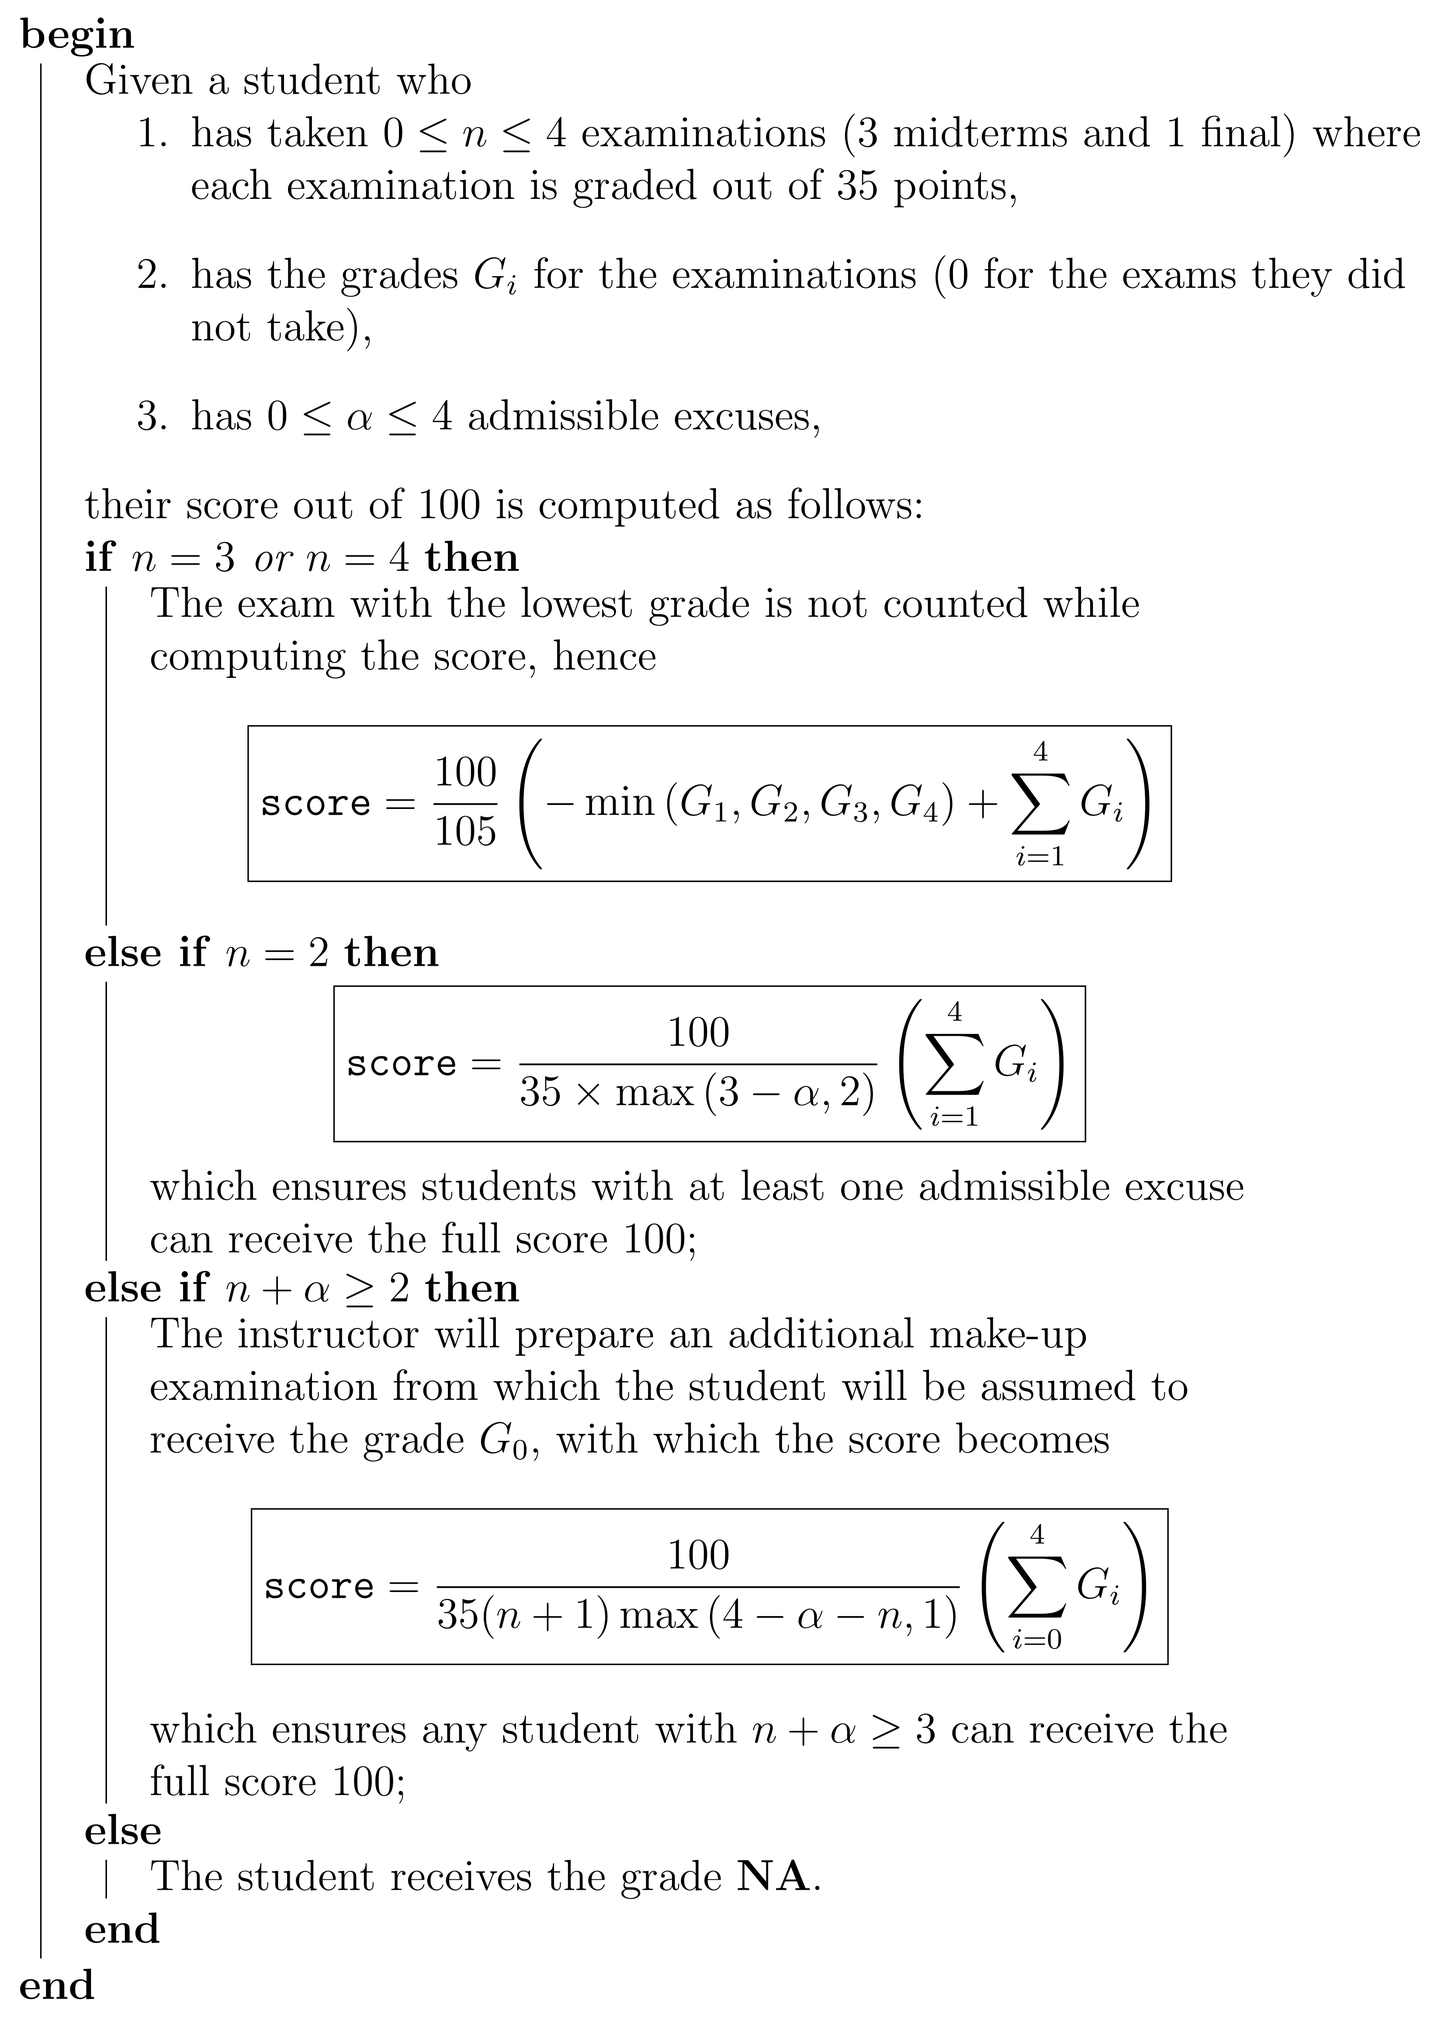
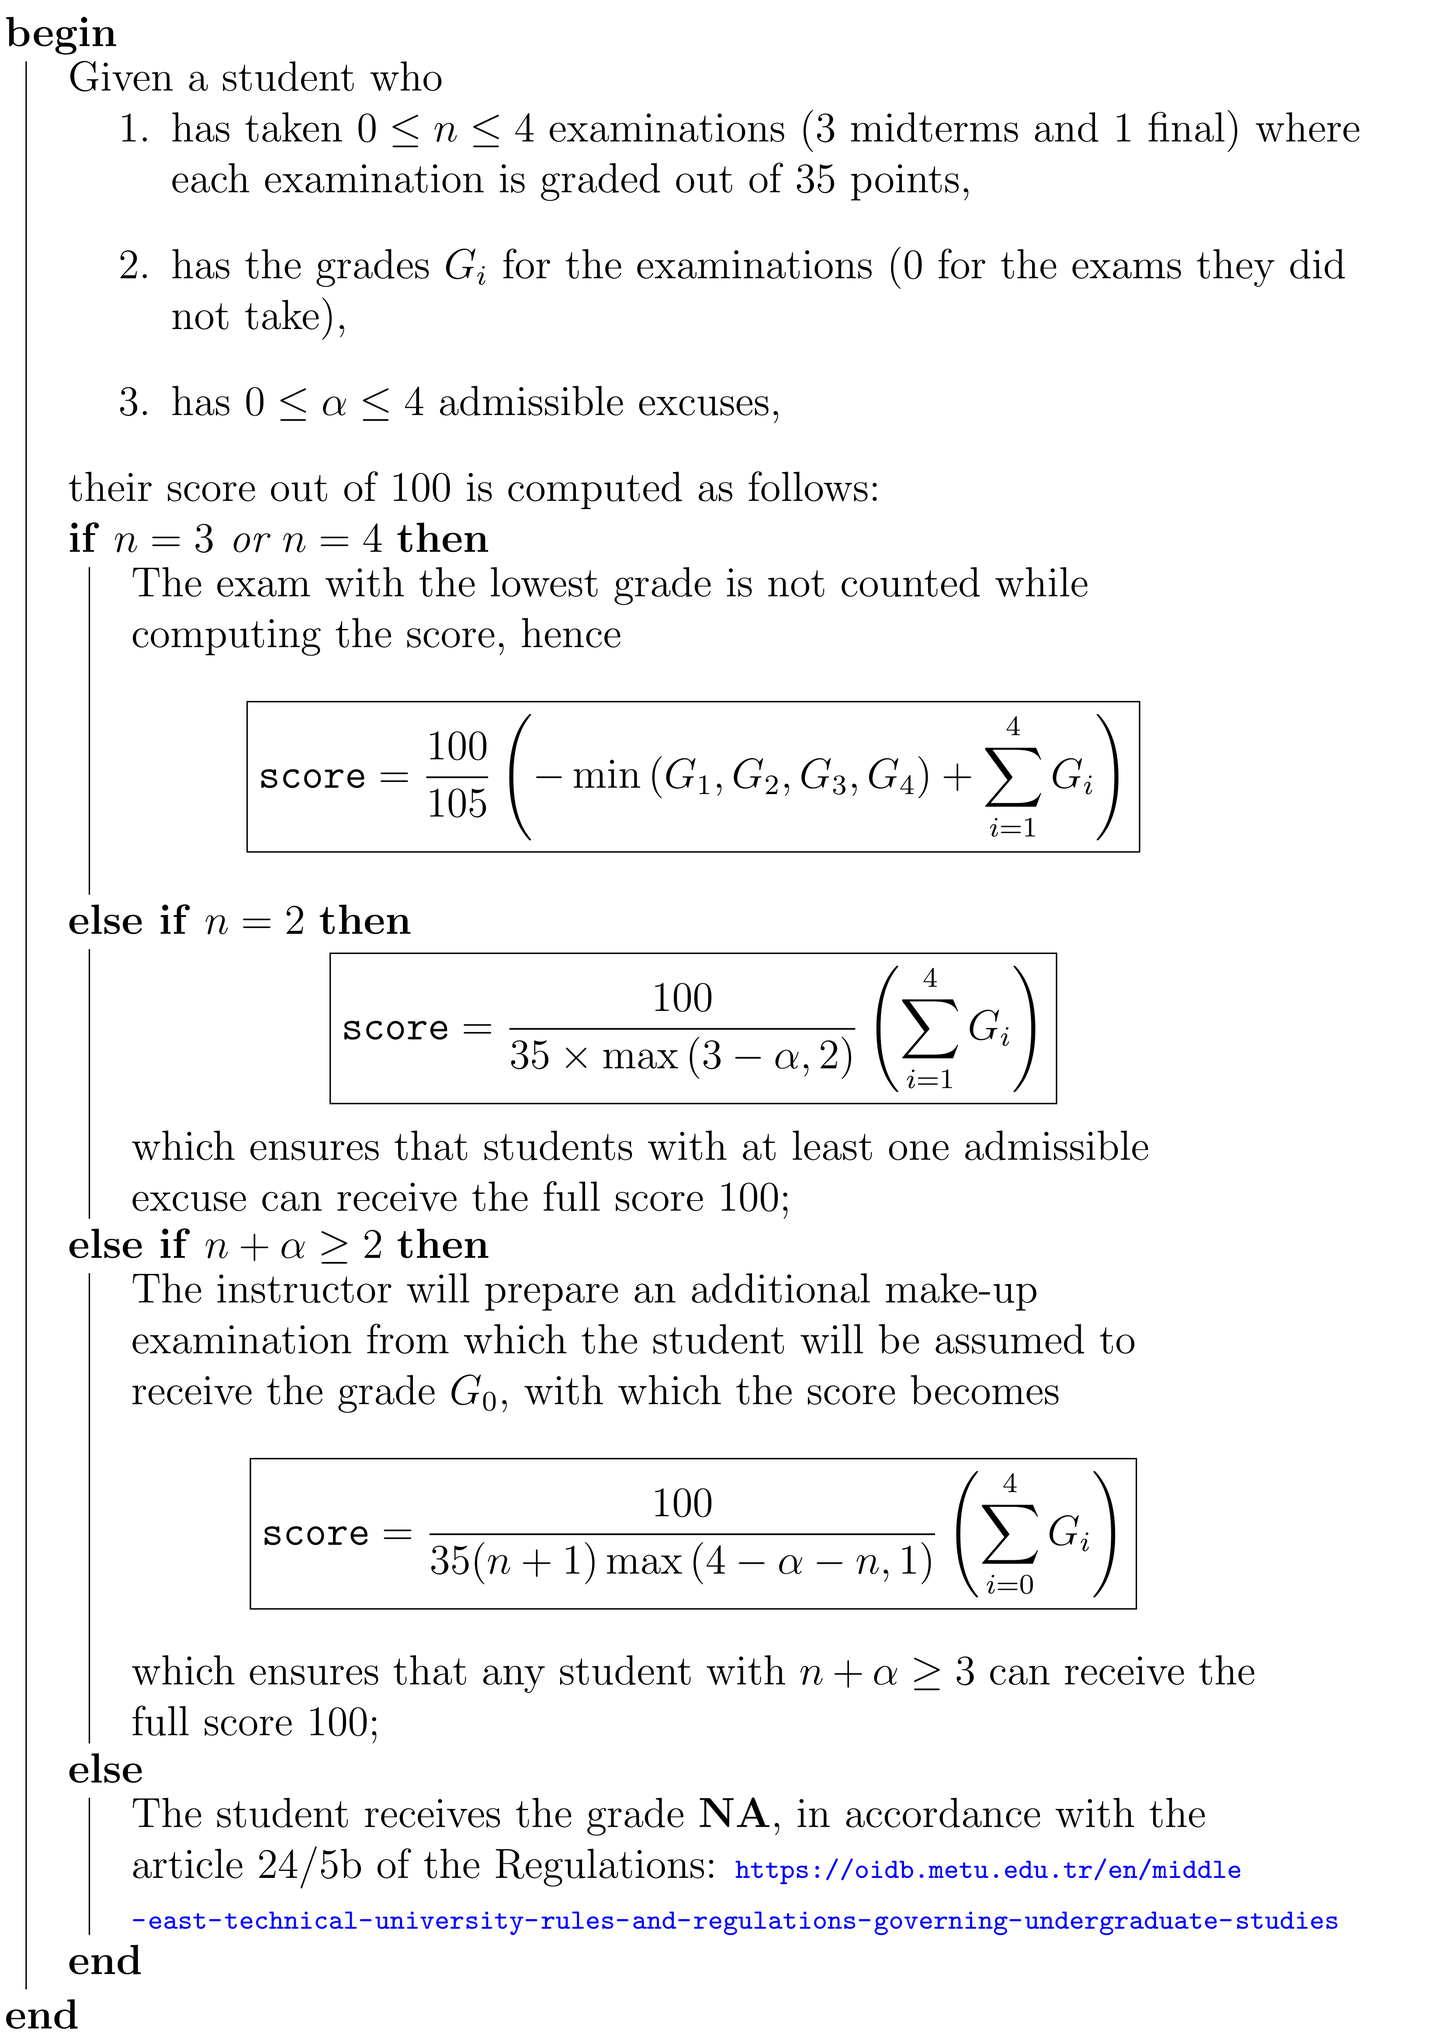
auto_commit

diff --git a/MyTeachingPolicy.html b/MyTeachingPolicy.html
@@ -47,15 +47,16 @@ these courses can get quite essential for the rest of your physics career and yo
 may not be able to learn everything by studying yourself! That said, your
 attendance will not affect your grade.
 </p>
-<!-- l. 17 --><p class='noindent'><span class='likeparagraphHead' id='grades'><a id='x10-61000'></a>Grades:</span>
+<!-- l. 17 --><p class='noindent'><span class='likeparagraphHead' id='assessment-grades'><a id='x10-61000'></a>Assessment &amp; Grades:</span>
 </p>
       <ul class='itemize1'>
-      <li class='itemize'>A student gets an <span class='cmtt-12'>NA </span>if s/he takes none of the mid-term and final
-      examinations (article 24/5b in <a href='https://oidb.metu.edu.tr/en/middle-east-technical-university-rules-and-regulations-governing-undergraduate-studies'>Regulations</a>).
+      <li class='itemize'>By the <a href='https://oidb.metu.edu.tr/en/middle-east-technical-university-rules-and-regulations-governing-undergraduate-studies'>Regulations</a> (article 24/5), each student receives a letter grade
+      at the end of the semester.
       </li>
-      <li class='itemize'>The subdivision of overall score among examinations or other possible
-      courseload is determined per the course: see its syllabus for further
-      details.
+      <li class='itemize'>The letter grades will be determined based on the <span class='cmti-12'>scores </span>of the students,
+      and  the  subdivision  of  overall  score  among  examinations  or  other
+      possible courseload is determined per the course: see its syllabus for
+      further details.
       </li>
       <li class='itemize'>As  per  my  right  provided  by  the  <a href='https://oidb.metu.edu.tr/en/middle-east-technical-university-rules-and-regulations-governing-undergraduate-studies'>Regulations</a>  (article  24/2),  I  will
       determine the conversion of <span class='cmti-12'>Score </span>to a <span class='cmti-12'>Letter Grade </span>at the end of the
@@ -65,38 +66,56 @@ attendance will not affect your grade.
       on the overall class performance and the receptions of the exams by
       the class. For my grading strategy in past, check out <a href='https://soneralbayrak.com/teaching/MyGradingScheme'>my explanations
       here</a>.</li></ul>
-<!-- l. 24 --><p class='noindent'><span class='likeparagraphHead' id='makeup-examinations'><a id='x10-62000'></a>Make-up examinations:</span>
+<!-- l. 24 --><p class='noindent'><span class='likeparagraphHead' id='examinations-admissible-excuses'><a id='x10-62000'></a>Examinations &amp; Admissible Excuses:</span>
 </p>
       <ul class='itemize1'>
-      <li class='itemize'>
-      <!-- l. 26 --><p class='noindent'>If you have a medical report as an excuse for absenteeism in an examination,
-      you are entitled to a make-up examination. I will decide on the contents and
-      date of the make-up examination at my discreation, see <a href='https://oidb.metu.edu.tr/en/middle-east-technical-university-directive-students-health-issues-and-medical-reports'>Regulations</a> (article
-      11/1c). Also, make sure to
-           </p><dl class='enumerate-enumitem'><dt class='enumerate-enumitem'>
-        1. </dt><dd class='enumerate-enumitem'>submit your medical report to <span class='cmti-12'>Health and Guidance Center </span>at the
+      <li class='itemize'>Students are responsible to take each and every examination announced
+      in the syllabus. If you fail to take an examination without <span class='cmti-12'>an admissible
+      </span><span class='cmti-12'>excuse</span>, I will invoke my rights provided by the <a href='https://oidb.metu.edu.tr/en/middle-east-technical-university-rules-and-regulations-governing-undergraduate-studies'>Regulations</a> (article 23)
+      to penalize your score (hence effectively your letter grade) as detailed
+      in the respective syllabus of the course.
                                                                           
 
                                                                           
-           campus within 5 days after the period covered by the report ends,
-           as required by the <a href='https://oidb.metu.edu.tr/en/middle-east-technical-university-directive-students-health-issues-and-medical-reports'>Regulations</a> (article 10/2),
+      </li>
+      <li class='itemize'>
+      <!-- l. 27 --><p class='noindent'>If a student misses one or more examinations in the following cases, they
+      may be entitled to admissible excuses:
+           </p><dl class='enumerate-enumitem'><dt class='enumerate-enumitem'>
+        1. </dt><dd class='enumerate-enumitem'>If  you  were  at  the  <span class='cmti-12'>Health  and  Guidance  Center  </span>for  medical
+           examination or treatment at the same time as the exam, request
+           a <span class='cmti-12'>medical examination document </span>from HGC: I <span class='cmbx-12'>may or may not</span>
+           accept it as an admissible excuse, in alignment with the relevant
+           <a href='https://oidb.metu.edu.tr/en/middle-east-technical-university-directive-students-health-issues-and-medical-reports'>regulation</a> (article 9/4b).
            </dd><dt class='enumerate-enumitem'>
-        2. </dt><dd class='enumerate-enumitem'>send me a picture of the report as well.</dd></dl>
+        2. </dt><dd class='enumerate-enumitem'>If  you  have  a  medical  report,  it  is  an  admissible  excuse  (see
+           article 11/3c of <a href='https://oidb.metu.edu.tr/en/middle-east-technical-university-directive-students-health-issues-and-medical-reports'>Regulations</a>) if you submit your medical report
+           to <span class='cmti-12'>Health and Guidance Center  </span>(HGC) within 5 days after the
+           period covered by the report ends, as required by the <a href='https://oidb.metu.edu.tr/en/middle-east-technical-university-directive-students-health-issues-and-medical-reports'>Regulations</a>
+           (article 10/2). Therefore, I reserve the right <span class='cmti-12'>not to accept  </span>your
+           medical report as an admissible excuse if it was not validated by
+           HGC. In any case, I suggest that you contact me immediately if
+           you miss an exam due to a medical complication, and email me a
+           picture of your medical report as well.
+           </dd><dt class='enumerate-enumitem'>
+        3. </dt><dd class='enumerate-enumitem'>If the student has a concurrent examination scheduled for another
+           course, then I count it as an <span class='cmti-12'>admissible excuse </span>provided that the
+           instructor of the other course sends me an email through their
+           METU email address, verifying the exam clash.
+           </dd><dt class='enumerate-enumitem'>
+        4. </dt><dd class='enumerate-enumitem'>For other situations (such as a family crisis, death of a relative,
+           etc.),  please  contant  me:  I  may  (or  may  not)  grant  you  an
+           admissible excuse.</dd></dl>
       </li>
-      <li class='itemize'>You are <span class='cmti-12'>not </span>entitled to a make-up examination without a valid medical
-      report as an excuse for absenteeism in an examination. Nevertheless, I may
-      (or may not) grant you one if I believe you have a sufficiently valid reason:
-      contact me if you have such a situation (a family crisis, death of a relative,
-      etc.).
-      </li>
-      <li class='itemize'>Make-up examination is harder than the corresponding regular exam by its
-      nature: it may include more content and is usually conducted during the
-      finals’ weeks. This is to ensure that a student does not get an unintended
-      advantage by taking the make-up examination instead of the regular one, as
-      they get more time for the exam than their peers in the class. Therefore, <span class='cmti-12'>it
-      </span><span class='cmti-12'>is strategically unwise to try to get a make-up examination in an intend to
-      </span><span class='cmti-12'>get higher grades</span>.</li></ul>
+      <li class='itemize'>An admissible excuse does not warrant a make-up examination; it may
+      simply change the algorithm with which the student’s score is calculated in
+      accordance with the relevant regulations (for instance, see article 11/3c of
+      <a href='https://oidb.metu.edu.tr/en/middle-east-technical-university-directive-students-health-issues-and-medical-reports'>Regulations</a>). For more details, consult to the syllabus of the relevant
+      course.</li></ul>
 <!-- l. 1 --><div class='crosslinks'><p class='noindent'>[<a href='MyGradingScheme.html'>next</a>] [<a href='MyResearchInterests.html'>prev</a>] [<a href='MyResearchInterests.html#tailMyResearchInterests.html'>prev-tail</a>] [<a href='MyTeachingPolicy.html'>front</a>] [<a href='index.html#MyTeachingPolicy.html'>up</a>] </p></div>
+                                                                          
+
+                                                                          
 <!-- l. 1 --><p class='indent'>   <a id='tailMyTeachingPolicy.html'></a></p> 
 <div class='footer'><p>Copyright © by Soner Albayrak | All rights reserved</p></div> 
  

diff --git a/MyGradingScheme.html b/MyGradingScheme.html
@@ -22,9 +22,6 @@ transparency.
 <p><a id='x11-64000doc'></a></p>
 <!-- l. 6 --><p class='noindent'>Let us assume that a student <!-- l. 6 --><math display='inline' xmlns='http://www.w3.org/1998/Math/MathML'><mi>S</mi></math>
 takes a class <!-- l. 6 --><math display='inline' xmlns='http://www.w3.org/1998/Math/MathML'><mi>C</mi></math>: at the end of
-                                                                          
-
-                                                                          
 the semester, the grade <!-- l. 6 --><math display='inline' xmlns='http://www.w3.org/1998/Math/MathML'><mi>G</mi></math>
 of the student is expected to depend both on the student
 <!-- l. 6 --><math display='inline' xmlns='http://www.w3.org/1998/Math/MathML'><mi>S</mi></math> and the class
@@ -47,6 +44,9 @@ if it exists.
 </p>
       <ul class='itemize1'>
       <li class='itemize'>The dependence on <!-- l. 12 --><math display='inline' xmlns='http://www.w3.org/1998/Math/MathML'><mi>S</mi></math>
+                                                                          
+
+                                                                          
       can be reduced to a single parameter: <span class='cmti-12'>the score of the student</span>.
       </li>
       <li class='itemize'>The dependence on <!-- l. 13 --><math display='inline' xmlns='http://www.w3.org/1998/Math/MathML'><mi>C</mi></math>
@@ -60,9 +60,6 @@ on which bracket a student’s score falls into. This is colloquially called <sp
 <!-- l. 17 --><p class='noindent'><span class='likeparagraphHead' id='b'><a id='x11-66000'></a>(b)</span>
    The second practical approach assumes the following: </p>
       <ul class='itemize1'>
-                                                                          
-
-                                                                          
       <li class='itemize'>The dependence on <!-- l. 19 --><math display='inline' xmlns='http://www.w3.org/1998/Math/MathML'><mi>S</mi></math>
       can be reduced to a single parameter: <span class='cmti-12'>the score of the student</span>.
       </li>
@@ -83,6 +80,9 @@ did compared to this hypothetical average student. For instance, if a student ha
 score <!-- l. 24 --><math display='inline' xmlns='http://www.w3.org/1998/Math/MathML'><mrow><mn>40</mn></mrow></math>,
 and the probability for the hypothetical average student to get a score between
 <!-- l. 24 --><math display='inline' xmlns='http://www.w3.org/1998/Math/MathML'><mrow><mn>30</mn></mrow></math> and
+                                                                          
+
+                                                                          
 <!-- l. 24 --><math display='inline' xmlns='http://www.w3.org/1998/Math/MathML'><mrow><mn>100</mn></mrow></math> is
 <!-- l. 24 --><math display='inline' xmlns='http://www.w3.org/1998/Math/MathML'><mrow><mn>1</mn><mo class='MathClass-bin'>∕</mo><mn>100</mn></mrow></math>, then
 the student is to be awarded the letter grade <span class='cmtt-12'>AA </span>even though their score would be
@@ -99,9 +99,6 @@ Despite having the potential to be somehow fairer, these methods are either
 non-algorithmic or non-practical for large classes, hence I do not prefer
 them.
 </p>
-                                                                          
-
-                                                                          
    <h5 class='likesubsubsectionHead' id='my-algorithm'><a id='x11-68000'></a>My algorithm</h5>
 <p><a id='x11-68000doc'></a></p>
 <!-- l. 30 --><p class='noindent'>There are some problems both with the catalog and traditional curve grading:
@@ -122,6 +119,9 @@ them.
       whereas 25 other students with the score <!-- l. 33 --><math display='inline' xmlns='http://www.w3.org/1998/Math/MathML'><mrow><mi>X</mi> <mo class='MathClass-bin'>+</mo> <mn>1</mn></mrow></math>
       get the letter grade <span class='cmtt-12'>AA</span>: both catalog and traditional curve grading are
       insensitive to such problems!
+                                                                          
+
+                                                                          
       </li>
       <li class='itemize'><span class='cmbxti-10x-x-120'>They cannot distinguish high effort from low effort! </span>It is easier
       to get 5 more points if your grade is 20 out of 100, whereas this becomes
@@ -137,9 +137,6 @@ them.
       mechanism  at  all  to  supply  such  an  asymmetry.  In  short,  in  both
       approaches, one relies on instructor’s judgement to ensure that the
       grading scheme distinguishes low and high efforts.</li></ul>
-                                                                          
-
-                                                                          
 <!-- l. 37 --><p class='indent'>   The first two problems can be solved if we <span class='cmti-12'>cluster </span>students into various
 groups: indeed, we expect students to obtain similar results if they turn in similar
 homeworks or make similar mistakes in the exams, so it is natural to observe
@@ -160,6 +157,9 @@ not distinguish different parts of the score spectrum. We can remedy this by
 stretching the high end of the scores and squeezing the low end –this can be
 achieved by the following code: </p>
 <div class='center'>
+                                                                          
+
+                                                                          
 <!-- l. 46 --><p class='noindent'>
 </p>
 <!-- l. 47 -->
@@ -174,9 +174,6 @@ Semester. </p>
 <div class='center'>
 <!-- l. 53 --><p class='noindent'>
 </p><!-- l. 54 --><p class='noindent'><img alt='PIC' src='images//grade_visualization.png' style='width:100%' /> </p></div>
-                                                                          
-
-                                                                          
 <!-- l. 1 --><div class='crosslinks'><p class='noindent'>[<a href='MySchedule.html'>next</a>] [<a href='MyTeachingPolicy.html'>prev</a>] [<a href='MyTeachingPolicy.html#tailMyTeachingPolicy.html'>prev-tail</a>] [<a href='MyGradingScheme.html'>front</a>] [<a href='index.html#MyGradingScheme.html'>up</a>] </p></div>
 <!-- l. 1 --><p class='indent'>   <a id='tailMyGradingScheme.html'></a></p> 
 <div class='footer'><p>Copyright © by Soner Albayrak | All rights reserved</p></div> 

diff --git a/index.html b/index.html
@@ -14,7 +14,7 @@
 <!-- l. 56 --><p class='noindent'>
 </p><!-- l. 57 --><p class='noindent'><span class='cmbx-12x-x-144'>Teaching</span></p></div>
 <!-- l. 59 --><p class='noindent'>Below are the courses that I have been an instructor of, listed in alphanumerically
-descending order. Last updated: 14/06/2025<br class='newline' />
+descending order. Last updated: 15/06/2025<br class='newline' />
 </p>
    <div class='tableofcontents'>
     <span class='likesectionToc'><a href='Phys777Phys778.html' id='QQ2-2-1'>Phys777 &amp; Phys778</a></span>

diff --git a/MySchedule.html b/MySchedule.html
@@ -13,7 +13,7 @@
    <h3 class='likesectionHead' id='my-schedule'><a id='x12-69000'></a>My Schedule</h3>
       <ul class='itemize1'>
       <li class='itemize'>At the bottom of this page lies my weekly schedule, which may change
-      unannounced. Last updated: 14/06/2025
+      unannounced. Last updated: 15/06/2025
       </li>
       <li class='itemize'>Feel free to stop by my office (413) at any unallocated time in the
       schedule; however, I only guarantee to be available during the office
